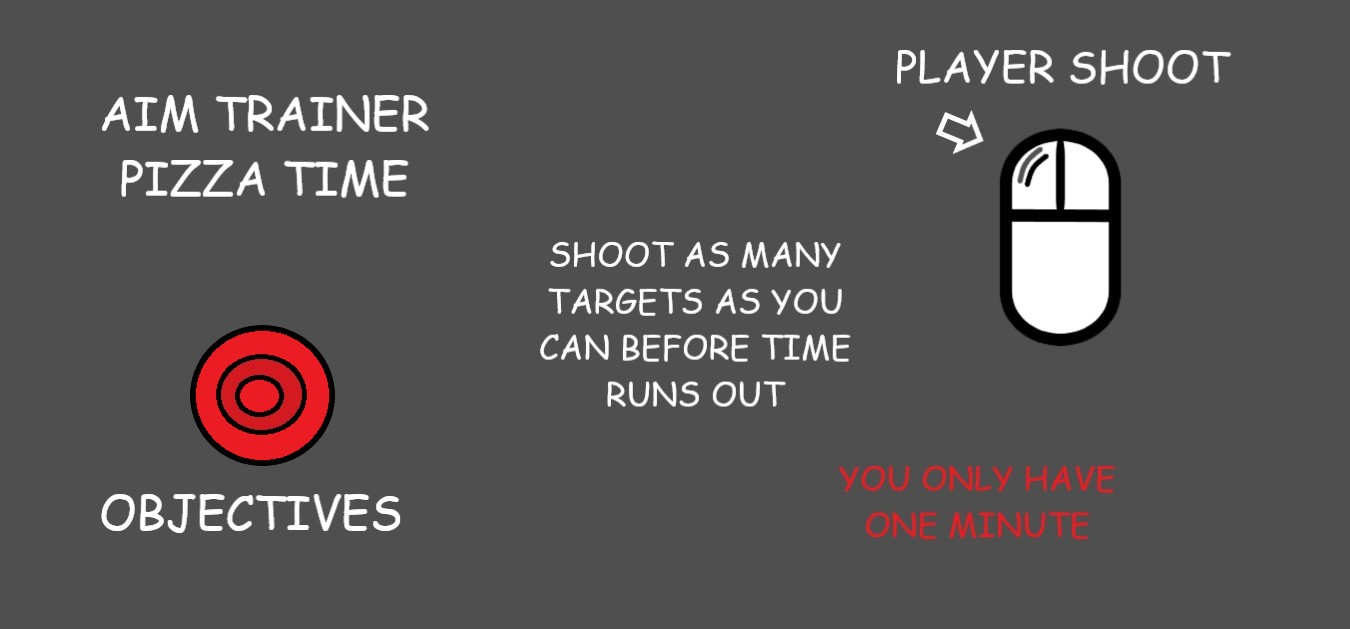
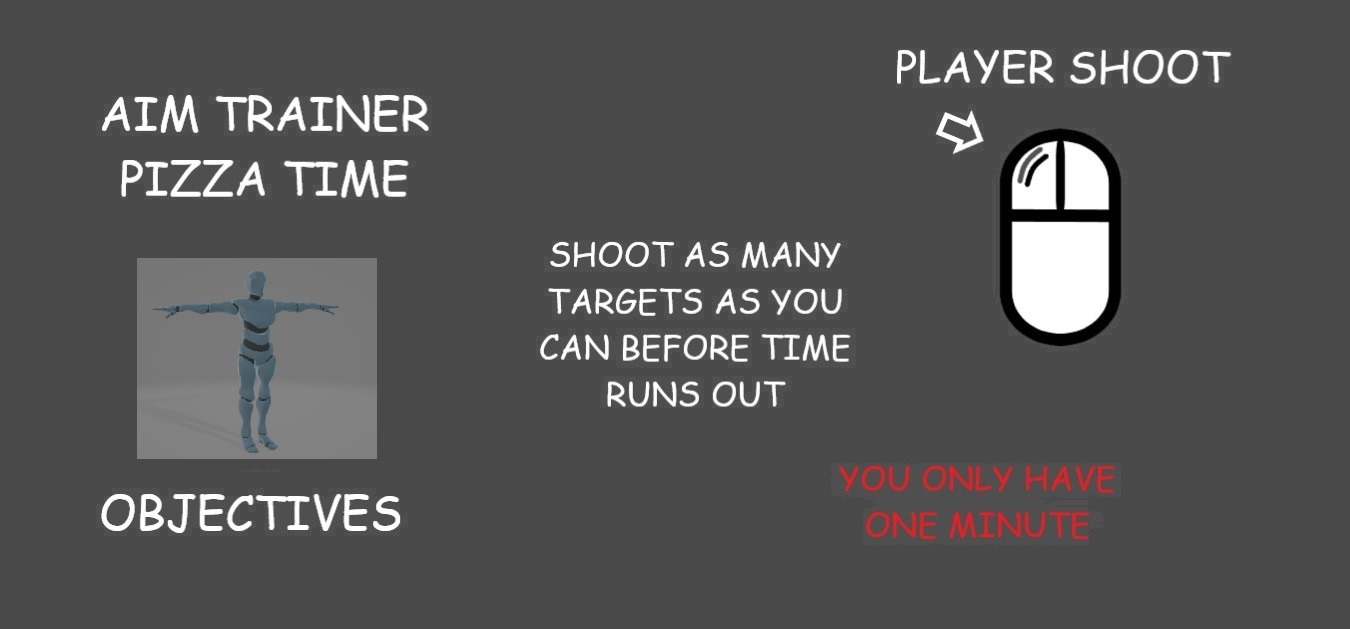
Bots Spawn

Changed region(s): [[0.0933, 0.3927, 0.28, 0.7552]]

diff --git a/Assets/Scripts/Enemy/Spawn.cs b/Assets/Scripts/Enemy/Spawn.cs
@@ -1,0 +1,36 @@
+using System.Collections;
+using System.Collections.Generic;
+using UnityEngine;
+
+public class Spawn : MonoBehaviour
+{
+    [SerializeField] private GameObject EnemyBot;
+    [SerializeField] private Transform trans;
+    private int enemyCount;
+    [SerializeField] private float enemys;
+    [SerializeField] private float waitTime;
+    void Start()
+    {
+        trans = GetComponent<Transform>();
+    }
+
+    // Update is called once per frame
+    void Update()
+    {
+        if(enemyCount <= enemys)
+        {
+            StartCoroutine(EnemyDrop());
+            
+            
+        }
+    }
+
+    IEnumerator EnemyDrop()
+    {
+        
+        Instantiate(EnemyBot, new Vector3(trans.position.x, trans.position.y, trans.position.z), Quaternion.identity);
+        enemyCount += 1;
+        yield return new WaitForSeconds(waitTime);
+
+    }
+}
